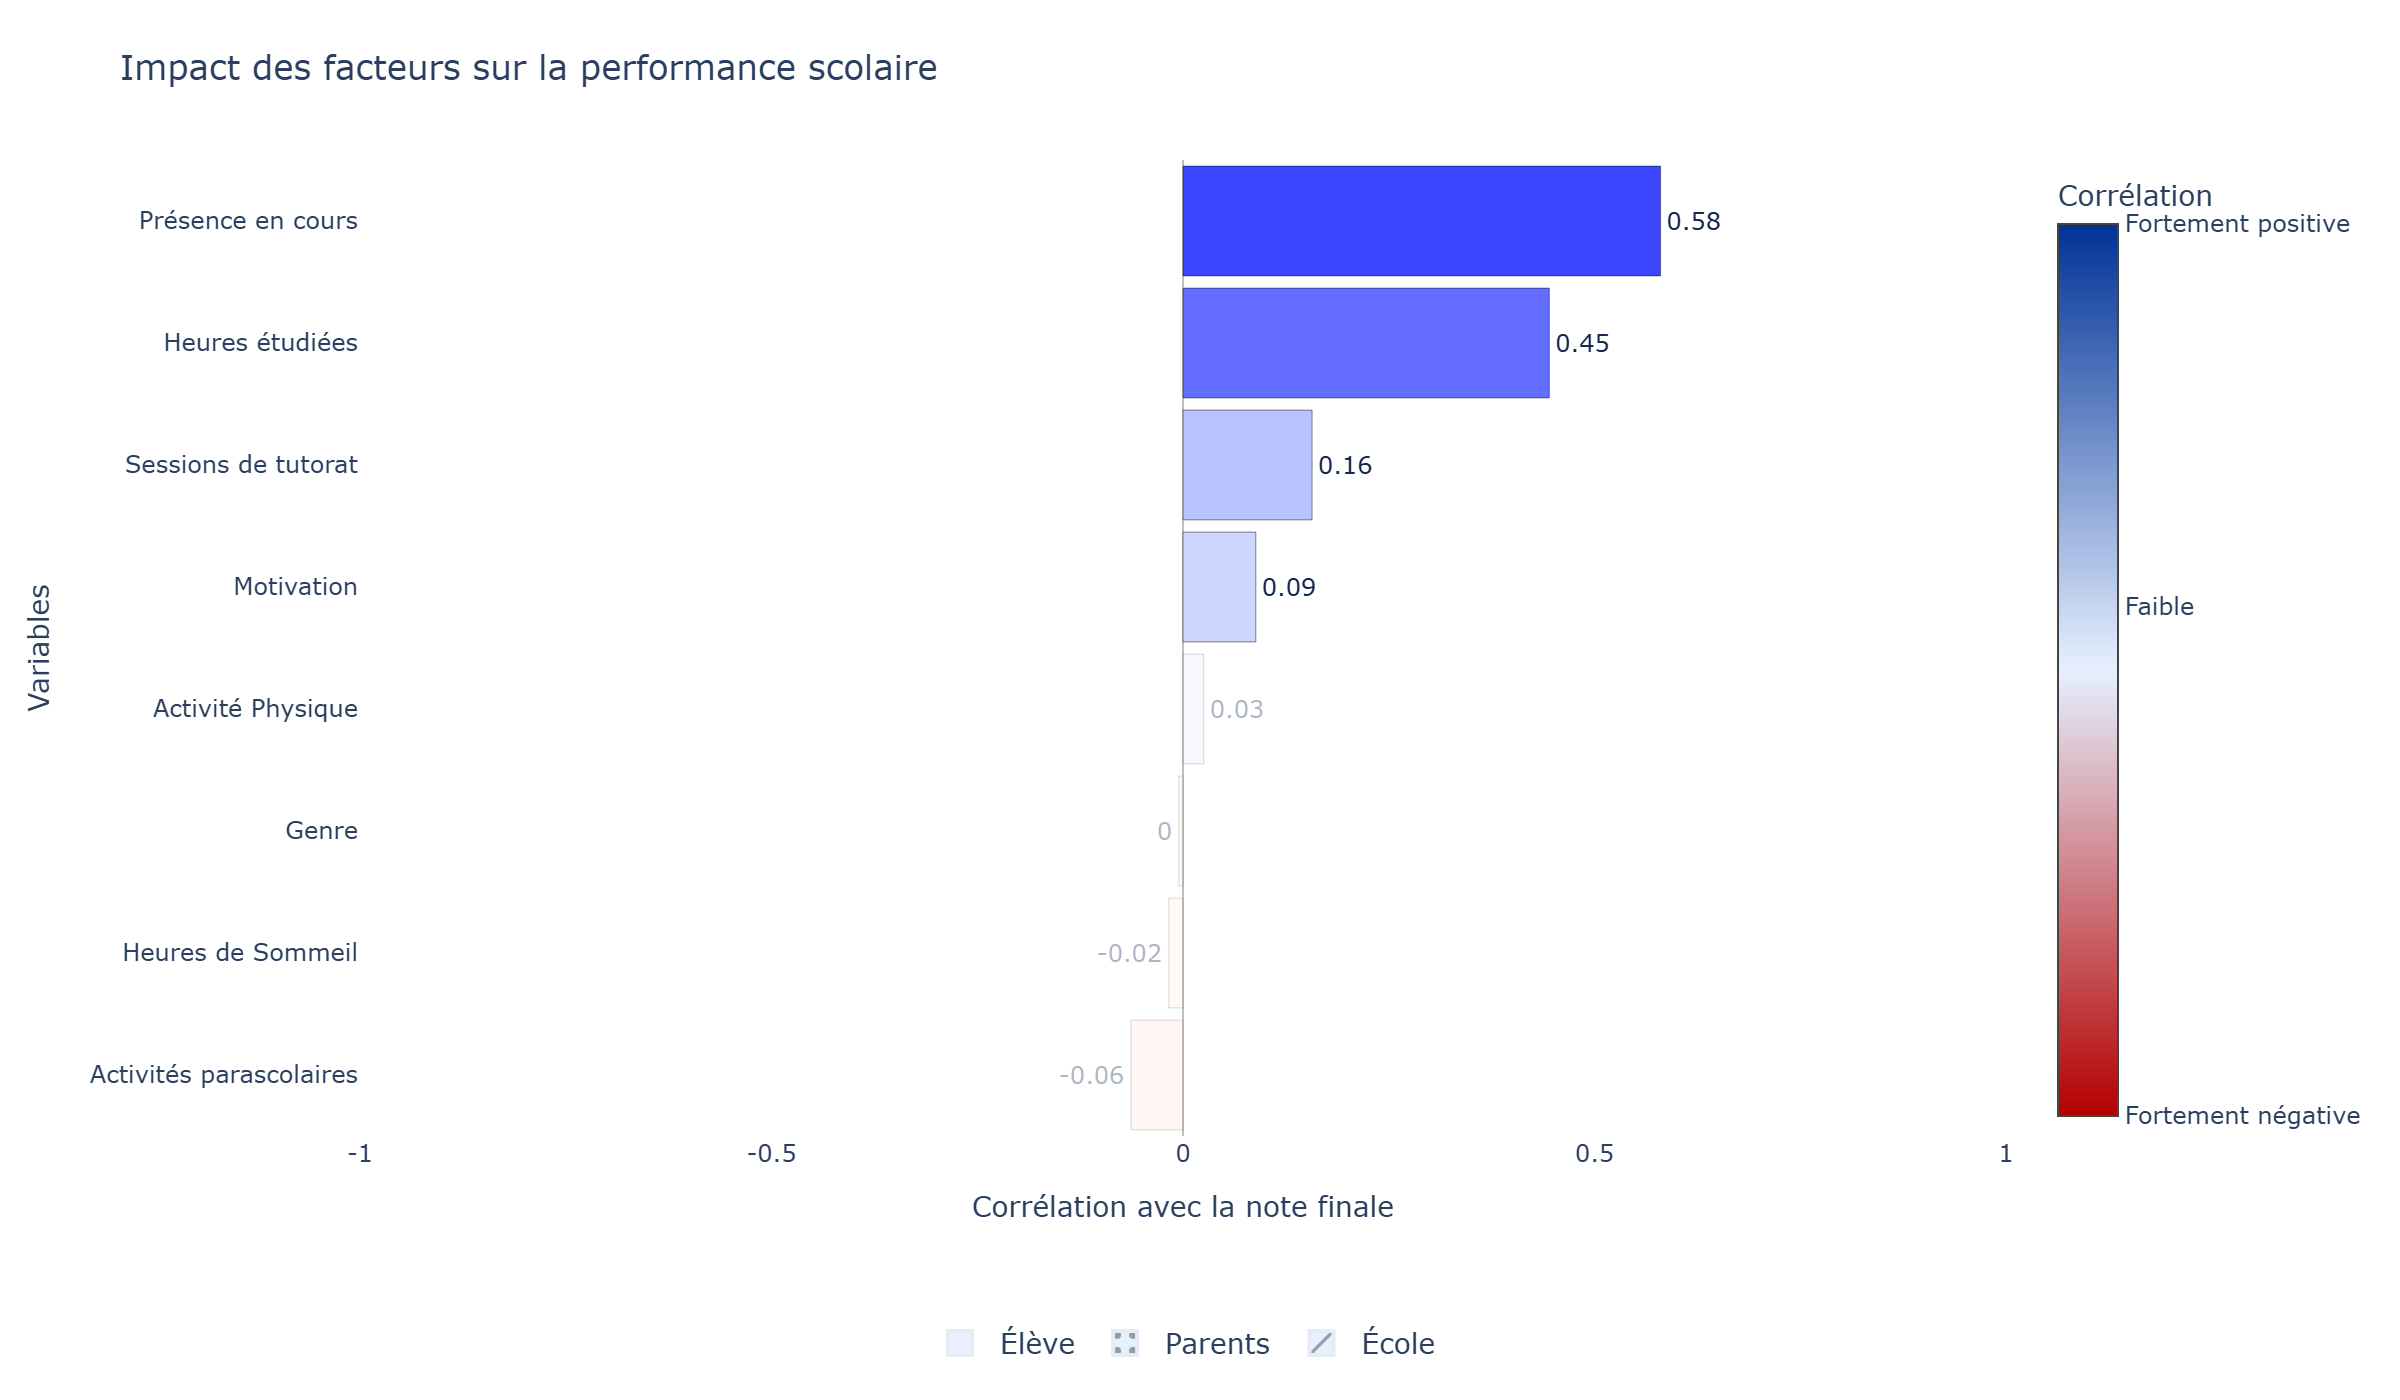
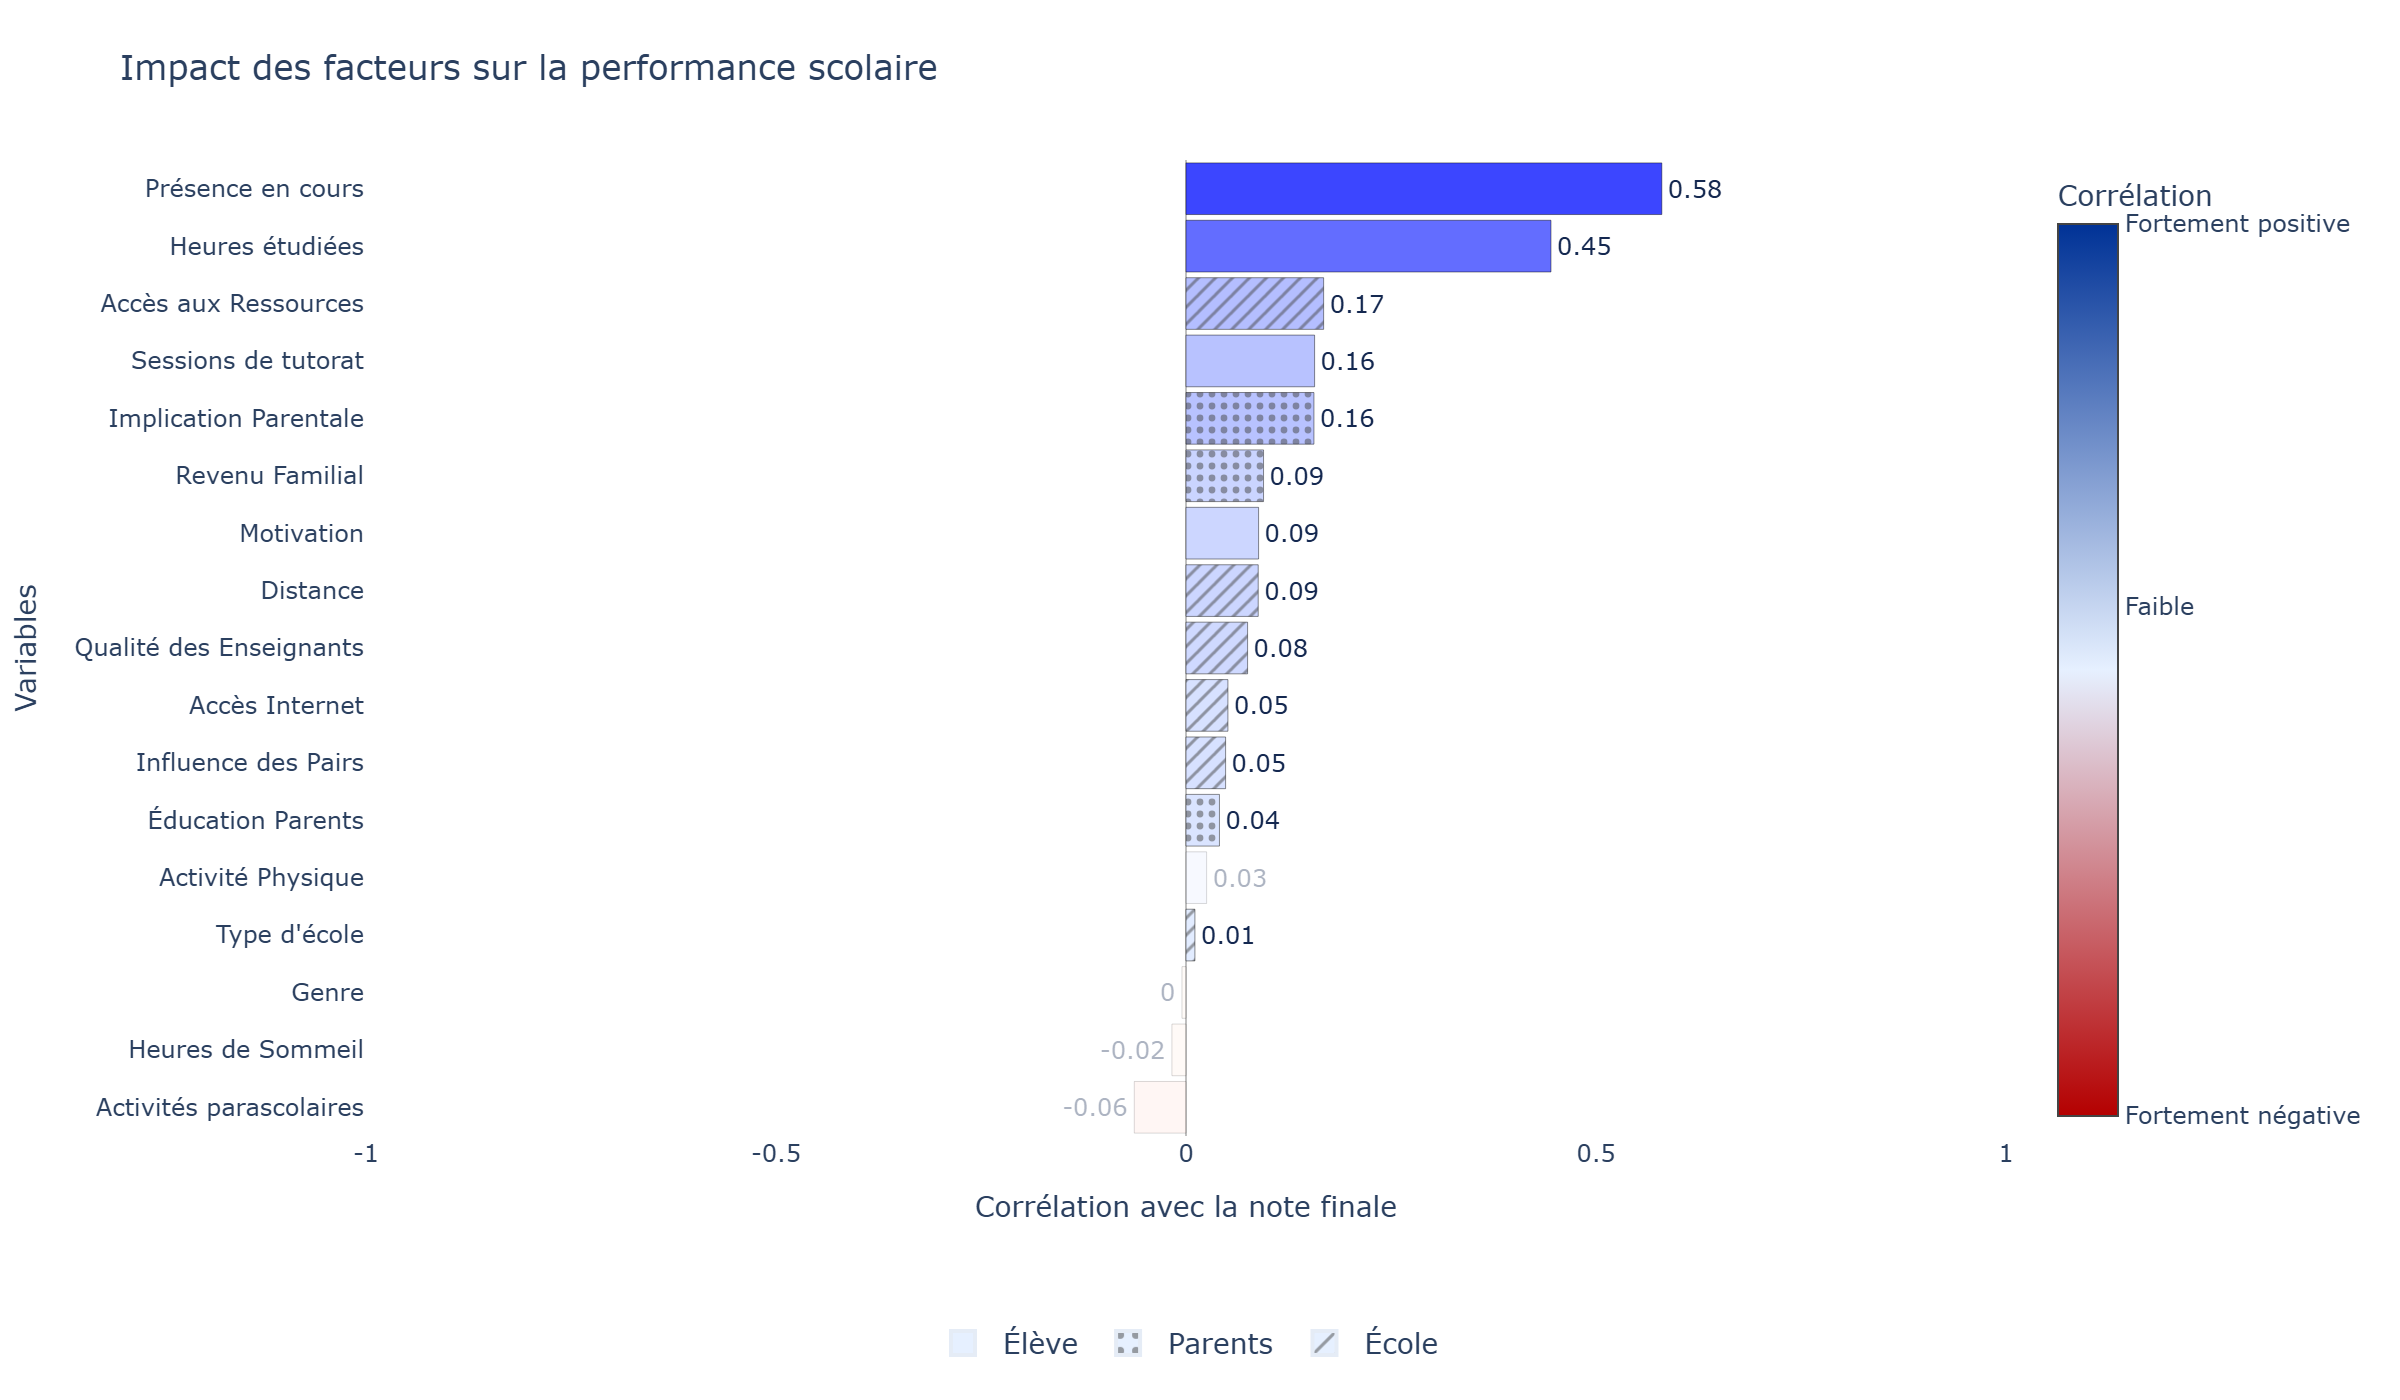
last modifications

diff --git a/assets/style.css b/assets/style.css
@@ -575,7 +575,8 @@ body {
   width: 90%;
 }
 
-.boxplot-transition-step {
+.boxplot-transition-step,
+.barchart-transition-step {
   min-height: 100vh;
   display: flex;
   align-items: center;
@@ -583,7 +584,8 @@ body {
   position: relative;
 }
 
-.boxplot-transition-card {
+.boxplot-transition-card,
+.barchart-transition-card {
   position: absolute;
   left: 0;
   width: 400%;
@@ -591,7 +593,8 @@ body {
   max-width: none;
 }
 
-.boxplot-transition-text {
+.boxplot-transition-text,
+.barchart-transition-text {
   font-size: 24px;
   font-weight: 500;
   line-height: 1.6;

diff --git a/graphs/bar_chart/template.py b/graphs/bar_chart/template.py
@@ -1,3 +1,4 @@
+from dash import html
 from pandas import DataFrame
 
 from .steps_config import STEPS_CONFIG
@@ -5,10 +6,10 @@ from .variables import *
 from utils.loading_img import load_img
 from utils.story_section import (
     get_steps_number as base_get_steps_number,
-    make_text_steps as base_make_text_steps,
-    make_graph_panels,
     make_section_layout,
 )
+
+TRANSITION_STEP_INDEX = 0
 
 
 def get_steps_number():
@@ -16,12 +17,89 @@ def get_steps_number():
 
 
 def make_text_steps(start_index: int = 1):
-    return base_make_text_steps(STEPS_CONFIG, "barchart-step", start_index)
+    steps = []
+
+    for i, step_config in enumerate(STEPS_CONFIG):
+        step_index = start_index + i
+
+        if i == TRANSITION_STEP_INDEX:
+            steps.append(
+                html.Div(
+                    className="story-step barchart-step barchart-transition-step",
+                    **{"data-step": str(step_index)},
+                    children=[
+                        html.Div(
+                            className="text-card barchart-transition-card",
+                            children=[
+                                html.P(
+                                    "Regardons maintenant les impacts en général.",
+                                    className="text-card-paragraph barchart-transition-text",
+                                ),
+                            ],
+                        )
+                    ],
+                )
+            )
+        else:
+            steps.append(
+                html.Div(
+                    className="story-step barchart-step",
+                    **{"data-step": str(step_index)},
+                    children=[
+                        html.Div(
+                            className="text-card",
+                            children=[
+                                html.H3(step_config.title, className="text-card-title"),
+                                html.P(step_config.text, className="text-card-paragraph")
+                                if isinstance(step_config.text, str)
+                                else step_config.text,
+                            ],
+                        )
+                    ],
+                )
+            )
+
+    return steps
+
+
+def make_graph_panels(start_index: int = 1):
+    graph_panels = []
+
+    for i in range(len(STEPS_CONFIG)):
+        class_name = "section-graph-frame active" if i == 0 else "section-graph-frame"
+        step_value = str(start_index + i)
+
+        if i == TRANSITION_STEP_INDEX:
+            graph_panels.append(
+                html.Div(
+                    className=class_name,
+                    **{"data-step": step_value},
+                )
+            )
+        else:
+            graph_panels.append(
+                html.Div(
+                    className=class_name,
+                    **{"data-step": step_value},
+                    children=[
+                        html.Img(
+                            src=load_img("barchart", i),
+                            style={
+                                "width": "100%",
+                                "height": "100%",
+                                "objectFit": "contain",
+                            },
+                        )
+                    ],
+                )
+            )
+
+    return graph_panels
 
 
 def make_section(df: DataFrame, start_index: int = 1):
     steps = make_text_steps(start_index)
-    graph_panels = make_graph_panels(STEPS_CONFIG, "barchart", load_img, start_index)
+    graph_panels = make_graph_panels(start_index)
 
     return make_section_layout(
         steps=steps,

diff --git a/graphs/heat_map/steps_config.py b/graphs/heat_map/steps_config.py
@@ -14,12 +14,14 @@ STEPS_CONFIG = [
     StepParameters(
         title="Résultat",
         text=(
-            "Cette carte de chaleur montre la note finale moyenne selon le type d'école et la distance entre le domicile et l'école. "
-            "Les données montrent que la proximité du domicile est un facteur clé de succès : plus un élève habite près de son établissement, "
-            "meilleure est sa note finale, qu'il soit dans le secteur public ou privé. "
-            "S'il existe bien une tendance montrant que la proximité favorise légèrement les résultats, il faut garder en tête que les écarts constatés sont très faibles. "
-            "Le succès d'un élève ne se joue pas uniquement sur son adresse postale. Le type d'école et la distance sont des facteurs d'influence, "
-            "mais ils ne sont pas les seuls moteurs de la réussite scolaire, qui reste globalement constante dans tous les scénarios présentés."
+            "Cette carte de chaleur présente la note finale moyenne selon le type d’école et la distance entre le domicile et l’établissement. "
+            "On observe une légère tendance indiquant que les élèves qui habitent plus près de leur école obtiennent des résultats un peu plus élevés, "
+            "que ce soit dans le secteur public ou privé. Cependant, les écarts observés restent très faibles (environ 1 %), ce qui n’est pas suffisant "
+            "pour conclure à une différence réelle ou significative sur le plan statistique. Autrement dit, même si la proximité semble associée à de "
+            "meilleurs résultats, cette relation demeure limitée et doit être interprétée avec prudence. Cela dit, sur le plan logique et dans la réalité "
+            "quotidienne, il est donc valable de vouloir réduire le temps de transport, la fatigue et créer potentiellement plus de temps disponible pour "
+            "étudier ou se reposer en plaçant son enfant dans une école plus proche de la maison. Cependant, ces éléments, distance et type d’école, ne "
+            "suffisent pas à expliquer à eux seuls les performances académiques, qui dépendent d’un ensemble de facteurs beaucoup plus larges."
         ),
         graph_config=GraphConfig(),
     ),

diff --git a/graphs/heat_map/pie_chart.py b/graphs/heat_map/pie_chart.py
@@ -4,8 +4,8 @@ from dash import dcc
 from .variables import ID
 
 
-def make_pie_chart():
-    fig = create_pie_chart()
+def make_pie_chart(answer=None):
+    fig = create_pie_chart(answer)
 
     return dcc.Graph(
         id=ID["pie-chart"],
@@ -19,18 +19,26 @@ def make_pie_chart():
     )
 
 
-def create_pie_chart():
+def create_pie_chart(answer=None):
+    labels = ["Oui", "Non"]
+    values = [75, 25]
+
+    if answer == "yes":
+        colors = ["#1a6fdb", "#ffffff"]
+    else:
+        colors = ["#ffffff", "#1a6fdb"]
+
     fig = go.Figure(
         data=[
             go.Pie(
-                labels=["Oui", "Non"],
-                values=[75, 25],
+                labels=labels,
+                values=values,
                 hole=0,
                 textinfo="label+percent",
                 sort=False,
                 hoverinfo="skip",
                 marker=dict(
-                    colors=["#1a6fdb", "#ffffff"],
+                    colors=colors,
                     line=dict(color="#e5e7eb", width=1),
                 ),
             )
@@ -43,7 +51,7 @@ def create_pie_chart():
         plot_bgcolor="white",
         showlegend=False,
         height=200,
-        dragmode=False
+        dragmode=False,
     )
 
     return fig

diff --git a/graphs/bar_chart/steps_config.py b/graphs/bar_chart/steps_config.py
@@ -58,9 +58,20 @@ class StepParameters:
 
 STEPS_CONFIG: list[StepParameters] = [
     StepParameters(
+        title="",
+        text=(
+            "Regardons maintenant les impacts en général."
+        ),
+        graph_config=GraphConfig(
+            show_legend=False,
+            show_color_scale=False,
+            visible_factors=[],
+        ),
+    ),
+    StepParameters(
         title="Qu'est-ce qui fait vraiment la réussite d'un élève ?",
         text=(
-            "Pour répondre à cette question, nous avons analysé une multitude de facteurs — du cadre de vie à l'effort personnel, "
+            "Pour répondre à cette question, nous avons analysé une multitude de facteurs du cadre de vie à l'effort personnel, "
             "en passant par l'environnement familial. Ce graphique classe ces variables selon leur degré de corrélation avec la note finale : "
             "plus la barre est longue et bleue, plus le facteur a un impact direct sur la performance."
         ),

diff --git a/graphs/heat_map/callbacks.py b/graphs/heat_map/callbacks.py
@@ -80,10 +80,10 @@ def register_callbacks(app, df, init_step: int):
             return default_style, default_style, hidden_style
 
         if answer == "yes":
-            return default_style, hidden_style, reset_style
+            return selected_style, hidden_style, reset_style
 
         if answer == "no":
-            return hidden_style, default_style, reset_style
+            return hidden_style, selected_style, reset_style
 
         return default_style, default_style, hidden_style
 
@@ -123,4 +123,4 @@ def register_callbacks(app, df, init_step: int):
         Input(ID["answer-store"], "data"),
     )
     def update_pie_chart(answer):
-        return create_pie_chart()
+        return create_pie_chart(answer)

diff --git a/graphs/scatter/steps_config.py b/graphs/scatter/steps_config.py
@@ -34,7 +34,7 @@ STEPS_CONFIG: list[StepParameters] = [
         "Les données confirment que les heures consacrées à l'étude ne sont pas seulement un soutien, mais un réel levier ayant un fort impact sur la réussite finale.",
         GraphConfig(
             col_x=ColX.HOURS_STUDIED,
-            title_graph="Impact des heures d'études et pratiques d'activités parascolaires",
+            title_graph="Impact des heures d'études et pratique d'activités parascolaires",
             layers=[LinearTrendLayer()],
         ),
         title="Heures d'études.",

diff --git a/template.py b/template.py
@@ -13,7 +13,7 @@ def get_home_section():
                 children=[
                     html.H1("Analayses des facteurs influençant les notes des élèves", className="home-title"),
                     html.H3(
-                        "Scroller vers le bas pour dévouvrir les analyses",
+                        "Scroller vers le bas pour découvrir les analyses",
                         className="home-subtitle",
                     ),
                 ],
